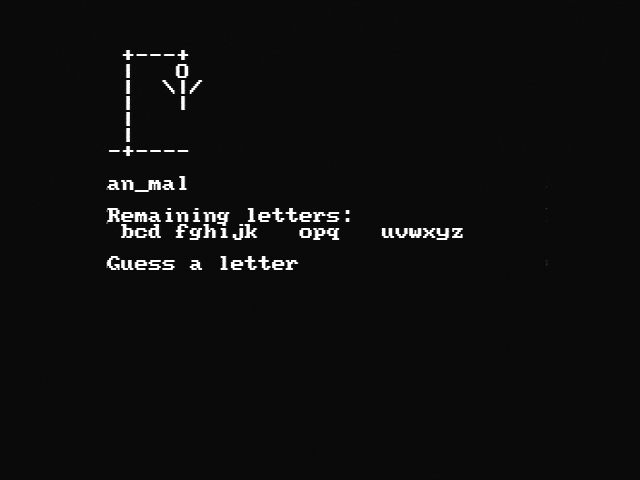
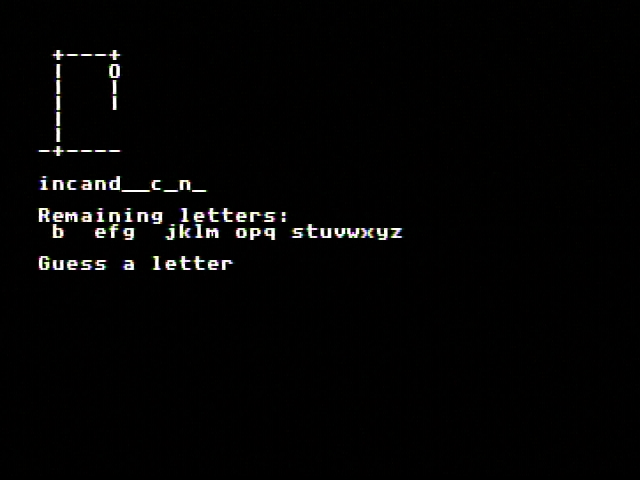
Add color to hangman

Changed region(s): [[0.0625, 0.375, 0.7188, 0.5], [0.0625, 0.0938, 0.3125, 0.3438], [0.0625, 0.5312, 0.4688, 0.5625]]

diff --git a/examples/hangman/src/hangman.c b/examples/hangman/src/hangman.c
@@ -51,6 +51,8 @@ void build_word_ptr()
 
 void welcome()
 {
+    textcolor(COLOR_YELLOW);
+    bgcolor(COLOR_BLUE);
     clrscr();
     cputs("\r\nHANGMAN\r\n\n");
     cputs("2021-2022 Rob Hailman\r\n\n");
@@ -115,6 +117,8 @@ void draw_hangman()
 void draw_screen()
 {
     unsigned char i = 0;
+    bgcolor(COLOR_BLACK);
+    textcolor(COLOR_WHITE);
     clrscr();
     draw_hangman();
 
@@ -194,10 +198,12 @@ void end_screen()
     draw_hangman();
     if (game_won)
     {
+        bgcolor(COLOR_GREEN);
         cputs("You won!\r\n\n");
     }
     else
     {
+        bgcolor(COLOR_RED);
         cputs("Game over!\r\n\n");
     }
     cputs("The word was \r\n\n");
@@ -224,6 +230,7 @@ int play_game()
                 {
                     draw_screen();
                     cputs("You already guessed that!\r\n");
+                    B_BEEP();
                 }
                 else
                 {
@@ -234,6 +241,7 @@ int play_game()
             {
                 draw_screen();
                 cputs("Please enter a letter!\r\n");
+                B_BEEP();
             }
         }
 
@@ -261,5 +269,7 @@ int main()
     while (play_game())
     {
     }
+    bgcolor(COLOR_BLACK);
+    textcolor(COLOR_WHITE);
     return (0);
 }

diff --git a/examples/hangman/README.md b/examples/hangman/README.md
@@ -4,3 +4,4 @@ A simple implenetation of the classic game Hangman, as a modest example of the c
 
 ![](img/hangman_1.jpg)
 ![](img/hangman_2.jpg)
+![](img/hangman_3.jpg)
